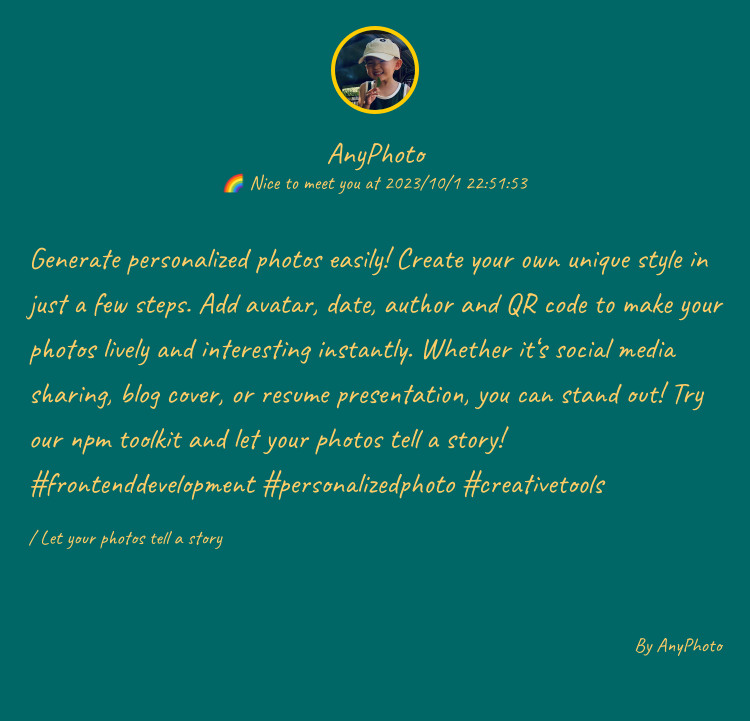
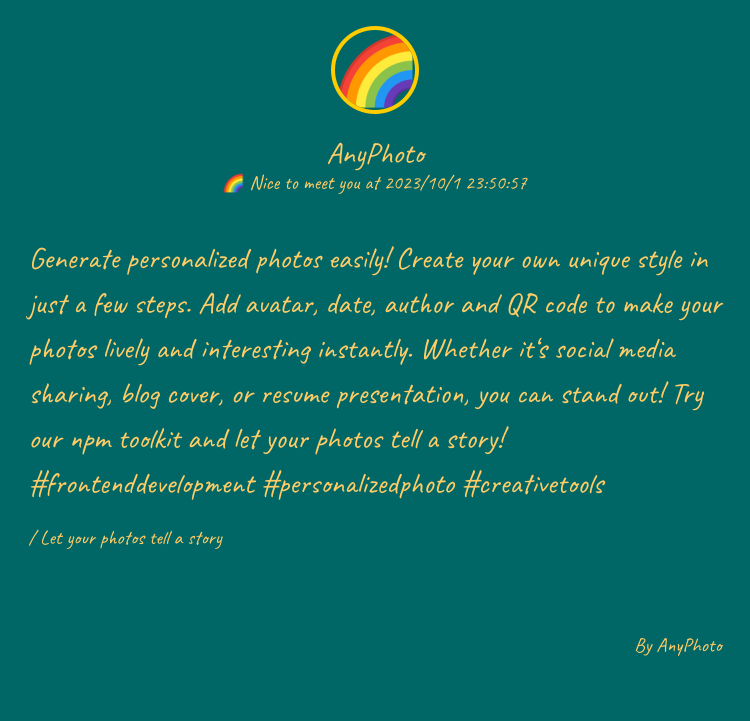
feat(action): use pnpm/action-setup action

Changed region(s): [[0.4293, 0.0305, 0.552, 0.1526], [0.6133, 0.2441, 0.6747, 0.2746]]

diff --git a/anyphoto.config.js b/anyphoto.config.js
@@ -1,21 +1,14 @@
 const anyPhotoConfig = {
-  defaultContent: 'Generate personalized photos easily! Create your own unique style in just a few steps. Add avatar, date, author and QR code to make your photos lively and interesting instantly. Whether it‘s social media sharing, blog cover, or resume presentation, you can stand out! Try our npm toolkit and let your photos tell a story!  #frontenddevelopment #personalizedphoto #creativetools',
+  defaultContent:
+    'Generate personalized photos easily! Create your own unique style in just a few steps. Add avatar, date, author and QR code to make your photos lively and interesting instantly. Whether it‘s social media sharing, blog cover, or resume presentation, you can stand out! Try our npm toolkit and let your photos tell a story!  #frontenddevelopment #personalizedphoto #creativetools',
   defaultOutputDirPath: 'anyphoto',
   defaultOutputName: 'anyphoto',
   defaultOutputNameHandle(defaultOutputName) {},
-  defaultAvatar: '/Users/weirui05/Desktop/WechatIMG38388.jpg',
+  defaultAvatar: 'https://pic.sopili.net/pub/emoji/noto-emoji/png/128/emoji_u1f308.png',
   defaultAuthor: 'AnyPhoto',
   canvasSetting: {
     width: 750,
-    fontFamilys: [
-      'Arial',
-      'Times New Roman',
-      'Verdana',
-      'Tahoma',
-      'Courier New',
-      'Helvetica',
-      'Custom'
-    ],
+    fontFamilys: ['Arial', 'Times New Roman', 'Verdana', 'Tahoma', 'Courier New', 'Helvetica', 'Custom'],
     customFontFamilyPath: '/Users/weirui05/Desktop/Caveat-VariableFont_wght.ttf',
     fallbackFontFamilyIndex: 4,
     backgroundColor: '#006666',

diff --git a/src/draw.js b/src/draw.js
@@ -1,4 +1,5 @@
 const { createCanvas, registerFont, loadImage } = require('canvas')
+const { exec } = require('child_process')
 const { barWatcher, formatDateTime } = require('./util')
 const HeaderCpu = require('./headerCpu')
 const FooterCpu = require('./footerCpu')
@@ -440,6 +441,8 @@ class Drawer {
           step: '🎉 Congratulations,Drawing End,Enjoy It' // todo open this in a new tab
         })
         barWatcher.stop()
+        // 使用命令行指令打开VSCode窗口
+        exec(`code ${filepath}`)
         console.timeEnd('draw')
       }
     })
